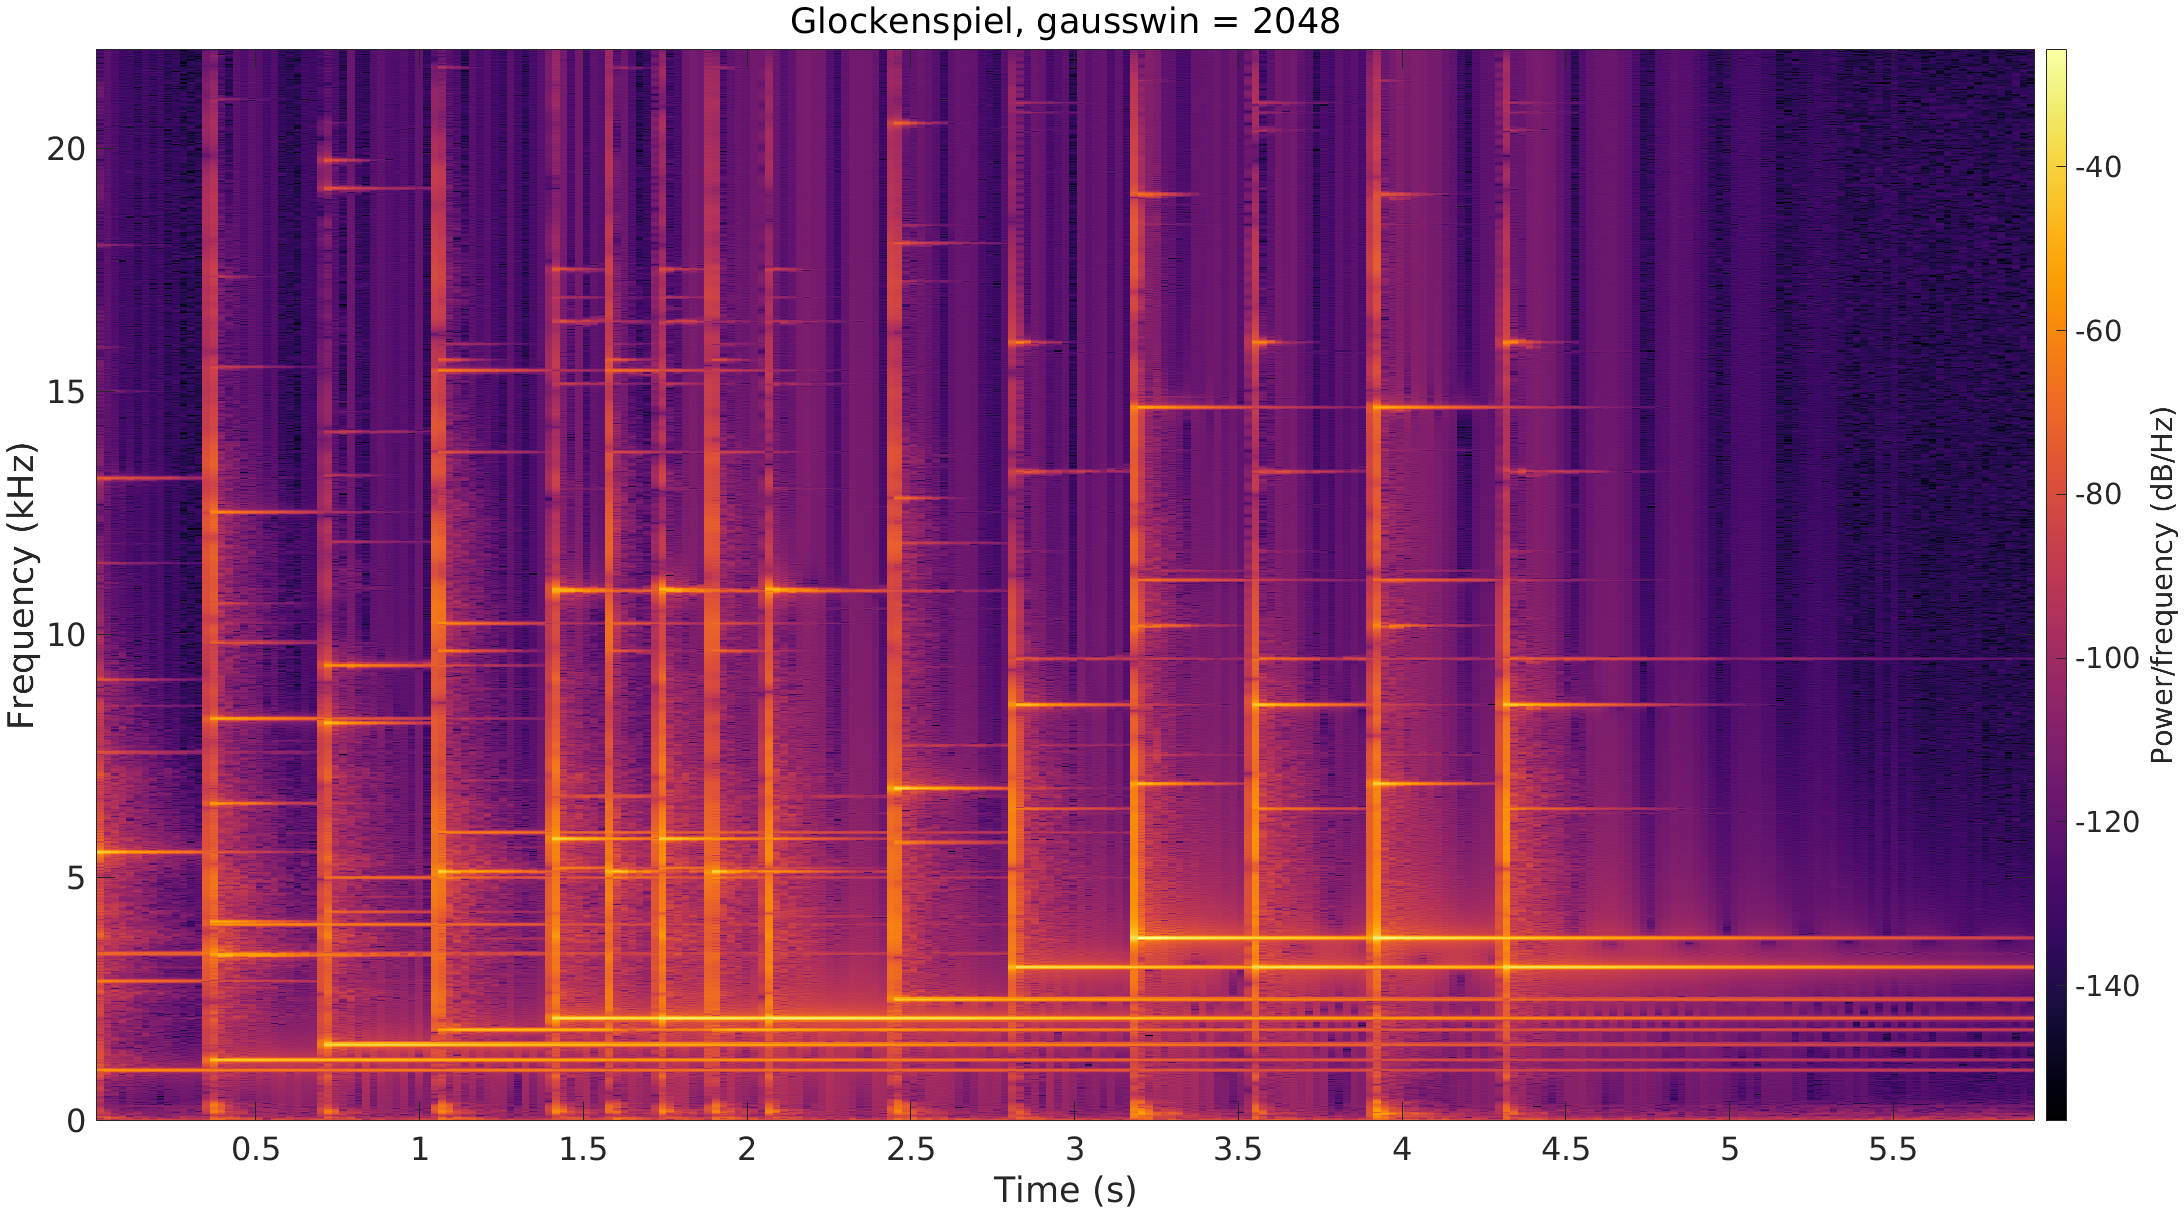
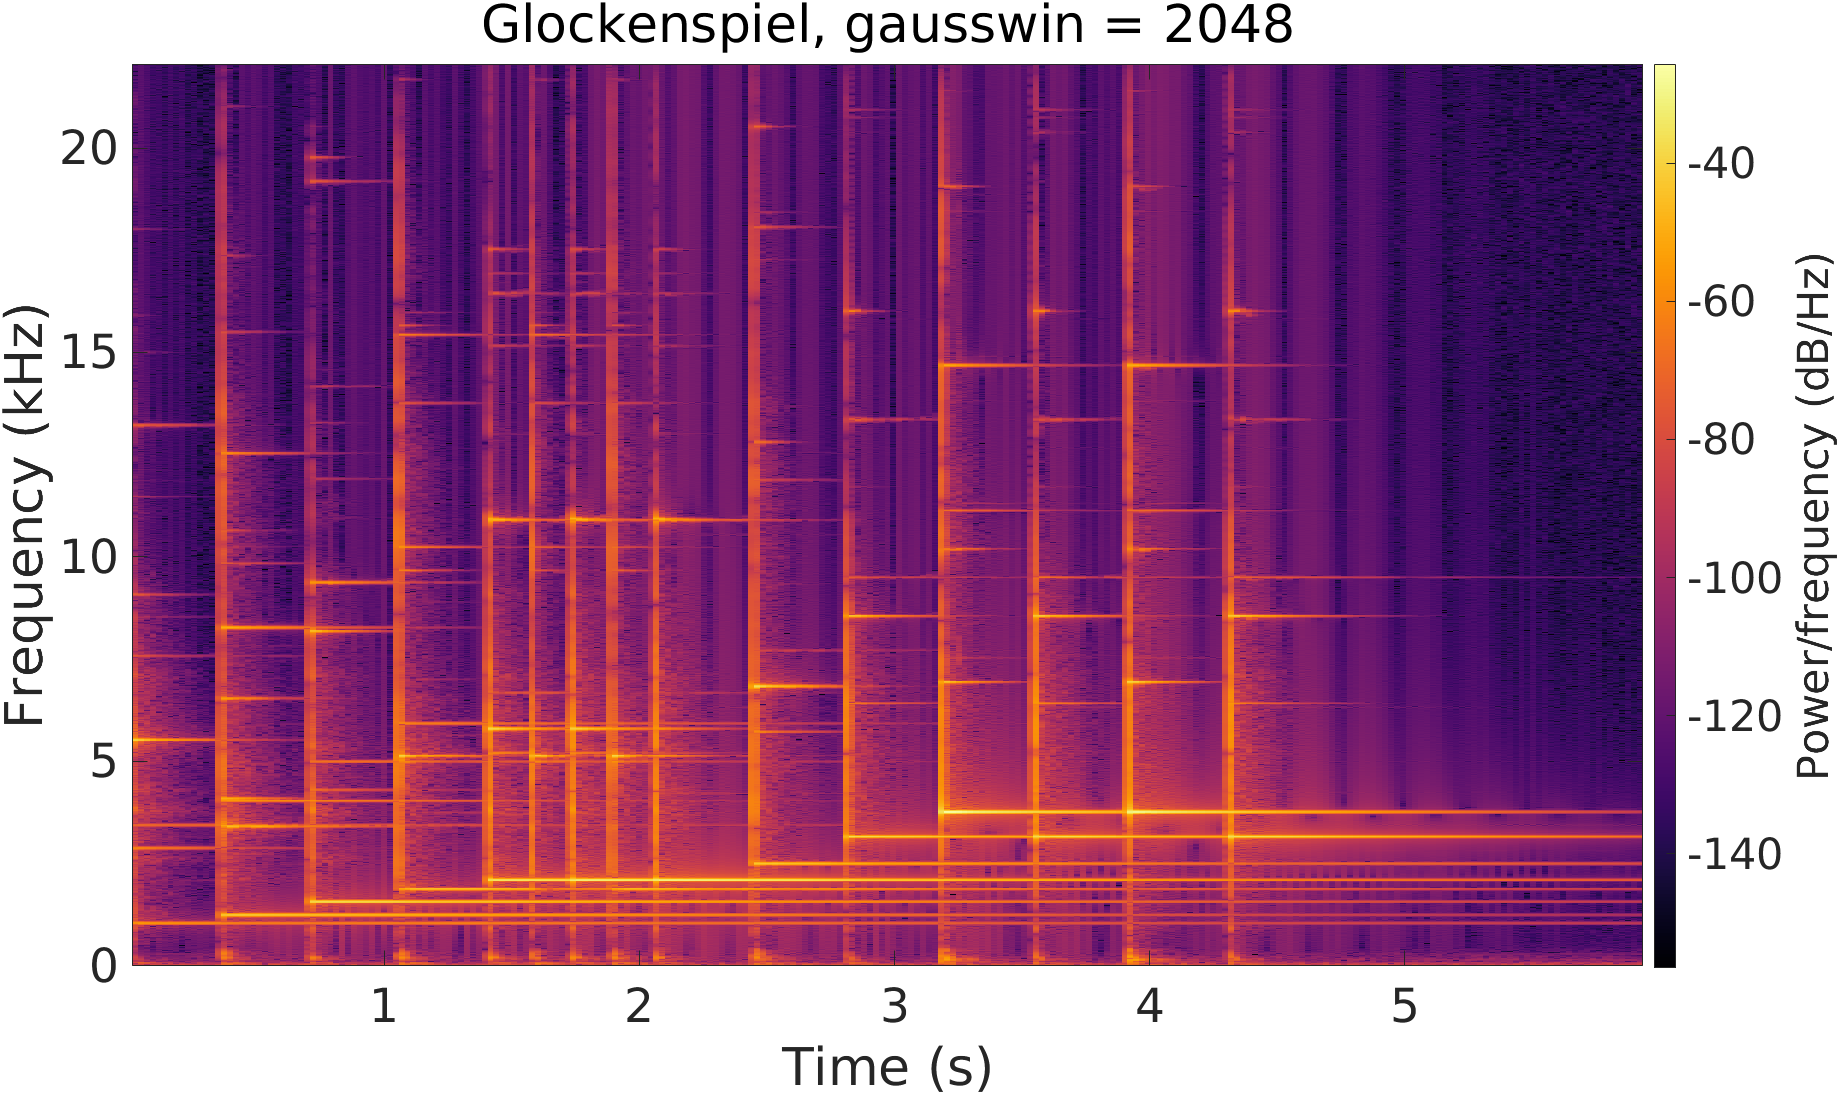
Use exportgraphics from MATLAB

diff --git a/matlab/plot_things.m b/matlab/plot_things.m
@@ -2,6 +2,8 @@ init;
 
 set(0, 'DefaultAxesFontSize', 34);
 set(0,'DefaultFigureColormap', ltfat_inferno);
+dpiVar = 100;
+gcfPosition = [1 1 1920 1080];
 
 [sig, fs] = gspi;
 
@@ -18,9 +20,8 @@ grid on;
 xlabel('time (s)');
 ylabel('amplitude');
 title('Glockenspiel waveform','FontWeight','Normal');
-set(gcf, 'Position', get(0, 'Screensize'));
-saveas(gcf,"../latex/images-gspi/glock_waveform.png");
-
+set(gcf, 'Position', gcfPosition);
+exportgraphics(gcf,"../latex/images-gspi/glock_waveform.png","Resolution",dpiVar);
 
 N = 2048;
 y = fft(sig, N);                               % Compute DFT of x
@@ -45,8 +46,8 @@ title(sprintf('Phase DFT, %d points', N),'FontWeight','Normal');
 xlabel('frequency (Hz)');
 ylabel('\angle DFT');
 
-set(gcf, 'Position', get(0, 'Screensize'));
-saveas(gcf,sprintf("../latex/images-gspi/glock_dft_%d.png", N));
+set(gcf, 'Position', gcfPosition);
+exportgraphics(gcf,sprintf("../latex/images-gspi/glock_dft_%d.png", N),"Resolution",dpiVar);
 
 N = siglen;
 y = fft(sig, N);                               % Compute DFT of x
@@ -71,68 +72,109 @@ title(sprintf('Phase DFT, %d points', N),'FontWeight','Normal');
 xlabel('frequency (Hz)');
 ylabel('\angle DFT');
 
-set(gcf, 'Position', get(0, 'Screensize'));
-saveas(gcf,sprintf("../latex/images-gspi/glock_dft_%d.png", N));
-% 
-% smallWin = 128;
-% midWin = 2048;
-% bigWin = 16384;
-% 
-% figure;
-% smallGauss=gausswin(smallWin);
-% spectrogram(sig,smallGauss,smallWin/2,smallWin*2,fs,"yaxis");
-% title("Glockenspiel, gausswin = 128",'FontWeight','Normal');
-% 
-% figure;
-% midGauss=gausswin(midWin);
-% spectrogram(sig,midGauss,midWin/2,midWin*2,fs,"yaxis");
-% title("Glockenspiel, gausswin = 2048",'FontWeight','Normal');
-% 
-% figure;
-% bigGauss=gausswin(bigWin);
-% spectrogram(sig,bigGauss,bigWin/2,bigWin*2,fs,"yaxis");
-% title("Glockenspiel, gausswin = 16384",'FontWeight','Normal');
-% 
-% figure;
-% smallHamm=hamming(smallWin);
-% spectrogram(sig,smallHamm,smallWin/2,smallWin*2,fs,"yaxis");
-% title("Glockenspiel, hammwin = 128",'FontWeight','Normal');
-% 
-% figure;
-% midHamm=hamming(midWin);
-% spectrogram(sig,midHamm,midWin/2,midWin*2,fs,"yaxis");
-% title("Glockenspiel, hammwin = 2048",'FontWeight','Normal');
-% 
-% figure;
-% bigHamm=hamming(bigWin);
-% spectrogram(sig,bigHamm,bigWin/2,bigWin*2,fs,"yaxis");
-% title("Glockenspiel, hammwin = 16384",'FontWeight','Normal');
-% 
-% figure;
-% plot(hamming(2048)); hold on; plot(gausswin(2048)); legend('Hamming window', 'Gaussian window');
-% title('2048-point windows; Hamming vs. Gaussian','FontWeight','Normal');
-% xlim([0 2048]);
-% 
-% figure;
-% spectrogram(sig,4096,1024,4096,fs,'yaxis');
-% title('Magnitude STFT, window=4096','FontWeight','Normal');
-% 
-% figure;
-% spectrogram(sig,1024,256,1024,fs,'yaxis');
-% title('Magnitude STFT, window=1024','FontWeight','Normal');
-% 
-% figure;
-% spectrogram(sig,256,64,256,fs,'yaxis');
-% title('Magnitude STFT, window=256','FontWeight','Normal');
-% 
-% figure;
-% cqt(sig,'SamplingFrequency',fs,'BinsPerOctave',12);
-% title('Magnitude CQT/CQ-NSGT, 12 bins-per-octave','FontWeight','Normal');
-% 
-% figure;
-% cqt(sig,'SamplingFrequency',fs,'BinsPerOctave',24);
-% title('Magnitude CQT/CQ-NSGT, 24 bins-per-octave','FontWeight','Normal');
-% 
-% figure;
-% cqt(sig,'SamplingFrequency',fs,'BinsPerOctave',48);
-% title('Magnitude CQT/CQ-NSGT, 48 bins-per-octave','FontWeight','Normal');
+set(gcf, 'Position', gcfPosition);
+exportgraphics(gcf,sprintf("../latex/images-gspi/glock_dft_%d.png", N),"Resolution",dpiVar);
+
+smallWin = 128;
+midWin = 2048;
+bigWin = 16384;
+
+figure;
+smallGauss=gausswin(smallWin);
+spectrogram(sig,smallGauss,smallWin/2,smallWin*2,fs,"yaxis");
+title("Glockenspiel, gausswin = 128",'FontWeight','Normal');
+
+set(gcf, 'Position', gcfPosition);
+exportgraphics(gcf,sprintf("../latex/images-gspi/glock_gauss_%d.png", smallWin),"Resolution",dpiVar);
+
+figure;
+midGauss=gausswin(midWin);
+spectrogram(sig,midGauss,midWin/2,midWin*2,fs,"yaxis");
+title("Glockenspiel, gausswin = 2048",'FontWeight','Normal');
+
+set(gcf, 'Position', gcfPosition);
+exportgraphics(gcf,sprintf("../latex/images-gspi/glock_gauss_%d.png", midWin),"Resolution",dpiVar);
+
+figure;
+bigGauss=gausswin(bigWin);
+spectrogram(sig,bigGauss,bigWin/2,bigWin*2,fs,"yaxis");
+title("Glockenspiel, gausswin = 16384",'FontWeight','Normal');
+
+set(gcf, 'Position', gcfPosition);
+exportgraphics(gcf,sprintf("../latex/images-gspi/glock_gauss_%d.png", bigWin),"Resolution",dpiVar);
+
+figure;
+smallHamm=hamming(smallWin);
+spectrogram(sig,smallHamm,smallWin/2,smallWin*2,fs,"yaxis");
+title("Glockenspiel, hammwin = 128",'FontWeight','Normal');
+
+set(gcf, 'Position', gcfPosition);
+exportgraphics(gcf,sprintf("../latex/images-gspi/glock_hamm_%d.png", smallWin),"Resolution",dpiVar);
+
+figure;
+midHamm=hamming(midWin);
+spectrogram(sig,midHamm,midWin/2,midWin*2,fs,"yaxis");
+title("Glockenspiel, hammwin = 2048",'FontWeight','Normal');
+
+set(gcf, 'Position', gcfPosition);
+exportgraphics(gcf,sprintf("../latex/images-gspi/glock_hamm_%d.png", midWin),"Resolution",dpiVar);
+
+figure;
+bigHamm=hamming(bigWin);
+spectrogram(sig,bigHamm,bigWin/2,bigWin*2,fs,"yaxis");
+title("Glockenspiel, hammwin = 16384",'FontWeight','Normal');
+
+set(gcf, 'Position', gcfPosition);
+exportgraphics(gcf,sprintf("../latex/images-gspi/glock_hamm_%d.png", bigWin),"Resolution",dpiVar);
+
+figure;
+plot(hamming(2048)); hold on; plot(gausswin(2048)); legend('Hamming window', 'Gaussian window');
+title('2048-point windows; Hamming vs. Gaussian','FontWeight','Normal');
+xlim([0 2048]);
+
+set(gcf, 'Position', gcfPosition);
+exportgraphics(gcf,"../latex/images-tftheory/hamming_vs_gauss.png","Resolution",dpiVar);
+
+figure;
+spectrogram(sig,4096,1024,4096,fs,'yaxis');
+title('Magnitude STFT, window=4096','FontWeight','Normal');
+
+set(gcf, 'Position', gcfPosition);
+exportgraphics(gcf,"../latex/images-gspi/glock_stft_4096.png","Resolution",dpiVar);
+
+figure;
+spectrogram(sig,1024,256,1024,fs,'yaxis');
+title('Magnitude STFT, window=1024','FontWeight','Normal');
+
+set(gcf, 'Position', gcfPosition);
+exportgraphics(gcf,"../latex/images-gspi/glock_stft_1024.png","Resolution",dpiVar);
+
+figure;
+spectrogram(sig,256,64,256,fs,'yaxis');
+title('Magnitude STFT, window=256','FontWeight','Normal');
+
+set(gcf, 'Position', gcfPosition);
+exportgraphics(gcf,"../latex/images-gspi/glock_stft_256.png","Resolution",dpiVar);
+
+figure;
+cqt(sig,'SamplingFrequency',fs,'BinsPerOctave',12);
+title('Magnitude CQT/CQ-NSGT, 12 bins-per-octave','FontWeight','Normal');
+
+set(gcf, 'Position', gcfPosition);
+exportgraphics(gcf,"../latex/images-gspi/glock_cqt12.png","Resolution",dpiVar);
+
+figure;
+cqt(sig,'SamplingFrequency',fs,'BinsPerOctave',24);
+title('Magnitude CQT/CQ-NSGT, 24 bins-per-octave','FontWeight','Normal');
+
+set(gcf, 'Position', gcfPosition);
+exportgraphics(gcf,"../latex/images-gspi/glock_cqt24.png","Resolution",dpiVar);
+
+figure;
+cqt(sig,'SamplingFrequency',fs,'BinsPerOctave',48);
+title('Magnitude CQT/CQ-NSGT, 48 bins-per-octave','FontWeight','Normal');
+
+set(gcf, 'Position', gcfPosition);
+exportgraphics(gcf,"../latex/images-gspi/glock_cqt48.png","Resolution",dpiVar);
+
+close all;

diff --git a/latex/ch2_background.tex b/latex/ch2_background.tex
@@ -60,7 +60,7 @@ Throughout this section, the description of the Fourier Transform of acoustic si
 
 \begin{figure}[ht]
 	\centering
-	\includegraphics[width=0.825\textwidth,trim={1cm 0.25cm 1cm 0.25cm},clip]{./images-gspi/glock_waveform.png}
+	\includegraphics[width=0.825\textwidth]{./images-gspi/glock_waveform.png}
 	\caption{Glockenspiel waveform}
 	\label{fig:glockwaveform}
 \end{figure}
@@ -217,12 +217,15 @@ Figure \ref{fig:stfts} shows the Gabor transform alongside the STFT using a popu
 
 \begin{figure}[ht]
 	\centering
-	\subfloat[STFT, 128-sample Hamming]{\includegraphics[width=0.5\textwidth]{./images-gspi/glock_hamm_128.png}}
-	\subfloat[Gabor transform, 128-sample Gaussian]{\includegraphics[width=0.5\textwidth]{./images-gspi/glock_gauss_128.png}}\\
-	\subfloat[STFT, 2048-sample Hamming]{\includegraphics[width=0.5\textwidth]{./images-gspi/glock_hamm_2048.png}}
-	\subfloat[Gabor transform, 2048-sample Gaussian]{\includegraphics[width=0.5\textwidth]{./images-gspi/glock_gauss_2048.png}}\\
-	\subfloat[STFT, 16384-sample Hamming]{\includegraphics[width=0.5\textwidth]{./images-gspi/glock_hamm_16384.png}}
-	\subfloat[Gabor transform, 16384-sample Gaussian]{\includegraphics[width=0.5\textwidth]{./images-gspi/glock_gauss_16384.png}}
+	\subfloat[STFT, 128-sample Hamming]{\includegraphics[width=0.475\textwidth]{./images-gspi/glock_hamm_128.png}}
+	\hspace{0.1em}
+	\subfloat[Gabor transform, 128-sample Gaussian]{\includegraphics[width=0.475\textwidth]{./images-gspi/glock_gauss_128.png}}\\
+	\subfloat[STFT, 2048-sample Hamming]{\includegraphics[width=0.475\textwidth]{./images-gspi/glock_hamm_2048.png}}
+	\hspace{0.1em}
+	\subfloat[Gabor transform, 2048-sample Gaussian]{\includegraphics[width=0.475\textwidth]{./images-gspi/glock_gauss_2048.png}}\\
+	\subfloat[STFT, 16384-sample Hamming]{\includegraphics[width=0.475\textwidth]{./images-gspi/glock_hamm_16384.png}}
+	\hspace{0.1em}
+	\subfloat[Gabor transform, 16384-sample Gaussian]{\includegraphics[width=0.475\textwidth]{./images-gspi/glock_gauss_16384.png}}
 	\caption{Visual comparison of the magnitude STFT spectrograms with the Hamming and Gaussian window}
 	\label{fig:stfts}
 \end{figure}
@@ -271,10 +274,13 @@ Various plots of STFT and CQT spectrograms are shown in figure \ref{fig:cqtvstft
 \begin{figure}[ht]
 	\centering
 	\subfloat[CQT spectrogram, 12 bins-per-octave]{\includegraphics[width=0.475\textwidth]{./images-gspi/glock_cqt12.png}}
+	\hspace{0.1em}
 	\subfloat[STFT spectrogram, window size 256]{\includegraphics[width=0.475\textwidth]{./images-gspi/glock_stft_256.png}}\\
 	\subfloat[CQT spectrogram, 24 bins-per-octave]{\includegraphics[width=0.475\textwidth]{./images-gspi/glock_cqt24.png}}
+	\hspace{0.1em}
 	\subfloat[STFT spectrogram, window size 1024]{\includegraphics[width=0.475\textwidth]{./images-gspi/glock_stft_1024.png}}\\
 	\subfloat[CQT spectrogram, 48 bins-per-octave]{\includegraphics[width=0.475\textwidth]{./images-gspi/glock_cqt48.png}}
+	\hspace{0.1em}
 	\subfloat[STFT spectrogram, window size 4096]{\includegraphics[width=0.475\textwidth]{./images-gspi/glock_stft_4096.png}}
 	\caption{Spectrograms of the glockenspiel signal, showing how the CQT displays more musical information than the STFT for all frequency resolutions}
 	\label{fig:cqtvstft}
